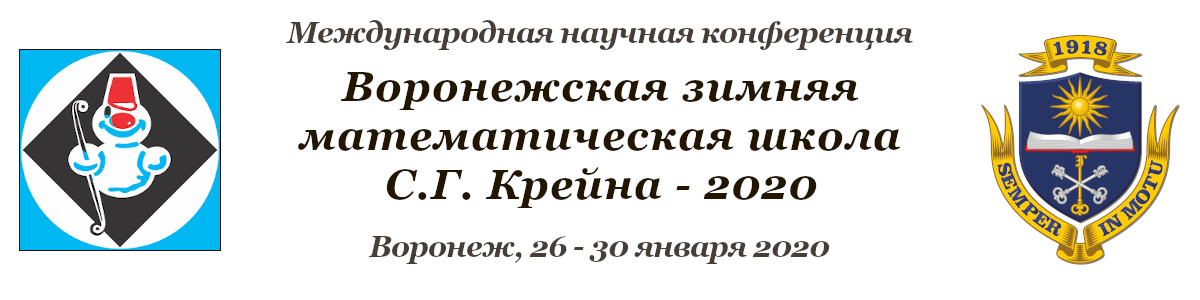
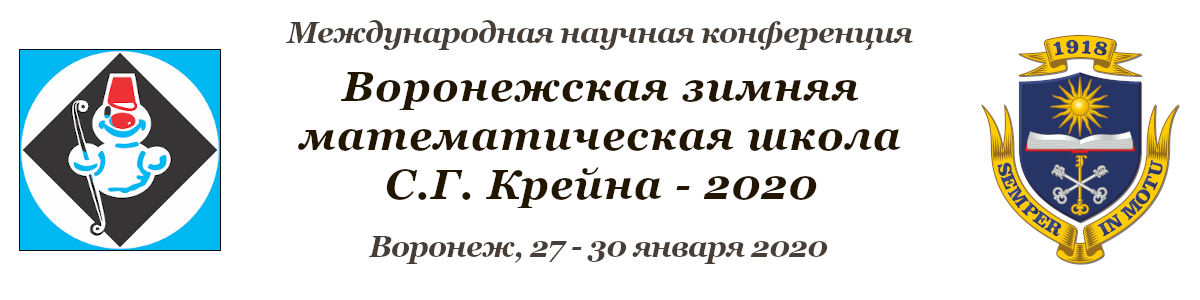
Исправлена дата открытия конференции

Changed region(s): [[0.4317, 0.78, 0.7092, 0.87]]

diff --git a/pelican/content/pages/index.md b/pelican/content/pages/index.md
@@ -6,7 +6,7 @@ save_as: index.html
 
 **<center>Уважаемые коллеги!</center>**
 
-Приглашаем Вас принять участие в очередной Воронежской зимней математической школе С.Г. Крейна - 2020, посвященной 100-летию Марка Александровича Красносельского, проводимой в городе Воронеже с **25 января** (заезд) по **30 января** (отъезд) 2020 года.
+Приглашаем Вас принять участие в очередной Воронежской зимней математической школе С.Г. Крейна - 2020, посвященной 100-летию Марка Александровича Красносельского, проводимой в городе Воронеже с **26 января** (заезд) по **30 января** (отъезд) 2020 года.
 
 Работа ВЗМШ-2020 предполагает проведение лекций (45 мин.), докладов (30 мин.) и сообщений (15 мин.) по следующим основным направлениям:
 
